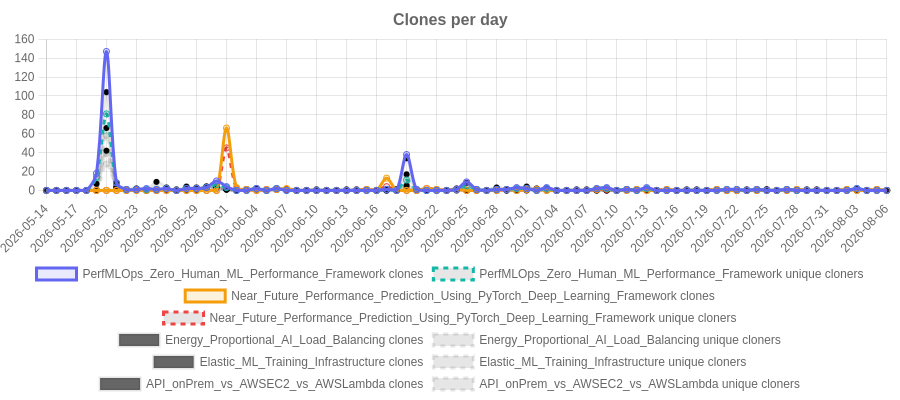
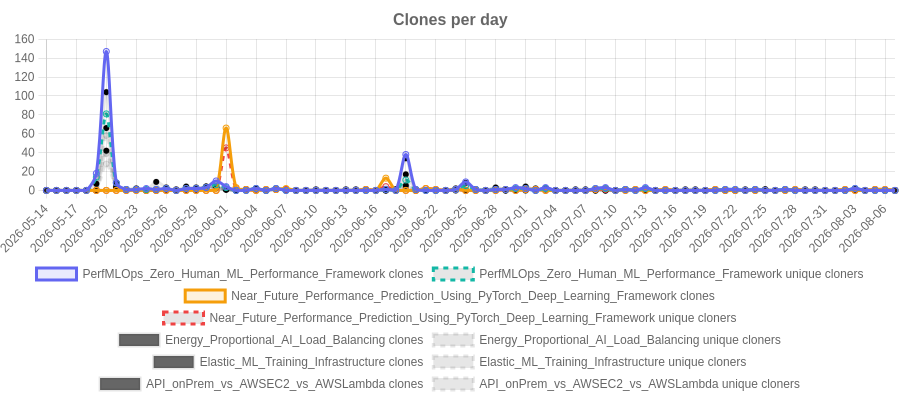
chore: archive traffic 2026-08-08

Changed region(s): [[0.1244, 0.33, 1.0, 0.63]]

diff --git a/index.html b/index.html
@@ -13,11 +13,11 @@ img{width:100%;border:1px solid #eee;border-radius:8px;margin-bottom:24px}
 </head>
 <body>
 <h1>Repo Traffic</h1>
-<p class="updated">Last updated: Fri, 07 Aug 2026 07:10:11 GMT</p>
+<p class="updated">Last updated: Sat, 08 Aug 2026 06:45:48 GMT</p>
 <h2>Combined totals</h2>
-<div class="cards"><div style="border:2px solid #6366f1;border-radius:12px;padding:24px;min-width:280px;width:340px;box-sizing:border-box;background:#f8f7ff"><div style="font-size:14px;font-weight:700;color:#6366f1;margin-bottom:14px">All repos combined</div><table style="width:100%;border-collapse:collapse;font-size:14px"><tr><td style="color:#888;padding:10px 0">Total views</td><td style="text-align:right;font-weight:700;font-size:22px;color:#6366f1">541</td></tr><tr><td style="color:#888;padding:10px 0">Total unique visitors</td><td style="text-align:right;font-weight:700;font-size:22px;color:#6366f1">94</td></tr><tr><td style="color:#888;padding:10px 0">Total clones</td><td style="text-align:right;font-weight:700;font-size:22px;color:#14b8a6">810</td></tr><tr><td style="color:#888;padding:10px 0">Total unique cloners</td><td style="text-align:right;font-weight:700;font-size:22px;color:#14b8a6">527</td></tr></table></div></div>
+<div class="cards"><div style="border:2px solid #6366f1;border-radius:12px;padding:24px;min-width:280px;width:340px;box-sizing:border-box;background:#f8f7ff"><div style="font-size:14px;font-weight:700;color:#6366f1;margin-bottom:14px">All repos combined</div><table style="width:100%;border-collapse:collapse;font-size:14px"><tr><td style="color:#888;padding:10px 0">Total views</td><td style="text-align:right;font-weight:700;font-size:22px;color:#6366f1">541</td></tr><tr><td style="color:#888;padding:10px 0">Total unique visitors</td><td style="text-align:right;font-weight:700;font-size:22px;color:#6366f1">94</td></tr><tr><td style="color:#888;padding:10px 0">Total clones</td><td style="text-align:right;font-weight:700;font-size:22px;color:#14b8a6">811</td></tr><tr><td style="color:#888;padding:10px 0">Total unique cloners</td><td style="text-align:right;font-weight:700;font-size:22px;color:#14b8a6">528</td></tr></table></div></div>
 <h2>Per repo totals</h2>
-<div class="cards"><div style="border:1px solid #ddd;border-radius:8px;padding:16px;flex:1;min-width:180px;box-sizing:border-box"><div style="font-size:11px;color:#666;word-break:break-all;margin-bottom:10px;font-weight:600">PerfMLOps_Zero_Human_ML_Performance_Framework</div><table style="width:100%;border-collapse:collapse;font-size:13px"><tr><td style="color:#888;padding:4px 0">Views</td><td style="text-align:right;font-weight:700;font-size:16px;color:#6366f1">191</td></tr><tr><td style="color:#888;padding:4px 0">Unique visitors</td><td style="text-align:right;font-weight:700;font-size:16px;color:#6366f1">22</td></tr><tr><td style="color:#888;padding:4px 0">Clones</td><td style="text-align:right;font-weight:700;font-size:16px;color:#14b8a6">281</td></tr><tr><td style="color:#888;padding:4px 0">Unique cloners</td><td style="text-align:right;font-weight:700;font-size:16px;color:#14b8a6">170</td></tr></table></div><div style="border:1px solid #ddd;border-radius:8px;padding:16px;flex:1;min-width:180px;box-sizing:border-box"><div style="font-size:11px;color:#666;word-break:break-all;margin-bottom:10px;font-weight:600">Near_Future_Performance_Prediction_Using_PyTorch_Deep_Learning_Framework</div><table style="width:100%;border-collapse:collapse;font-size:13px"><tr><td style="color:#888;padding:4px 0">Views</td><td style="text-align:right;font-weight:700;font-size:16px;color:#6366f1">59</td></tr><tr><td style="color:#888;padding:4px 0">Unique visitors</td><td style="text-align:right;font-weight:700;font-size:16px;color:#6366f1">17</td></tr><tr><td style="color:#888;padding:4px 0">Clones</td><td style="text-align:right;font-weight:700;font-size:16px;color:#14b8a6">104</td></tr><tr><td style="color:#888;padding:4px 0">Unique cloners</td><td style="text-align:right;font-weight:700;font-size:16px;color:#14b8a6">71</td></tr></table></div><div style="border:1px solid #ddd;border-radius:8px;padding:16px;flex:1;min-width:180px;box-sizing:border-box"><div style="font-size:11px;color:#666;word-break:break-all;margin-bottom:10px;font-weight:600">Energy_Proportional_AI_Load_Balancing</div><table style="width:100%;border-collapse:collapse;font-size:13px"><tr><td style="color:#888;padding:4px 0">Views</td><td style="text-align:right;font-weight:700;font-size:16px;color:#6366f1">116</td></tr><tr><td style="color:#888;padding:4px 0">Unique visitors</td><td style="text-align:right;font-weight:700;font-size:16px;color:#6366f1">28</td></tr><tr><td style="color:#888;padding:4px 0">Clones</td><td style="text-align:right;font-weight:700;font-size:16px;color:#14b8a6">165</td></tr><tr><td style="color:#888;padding:4px 0">Unique cloners</td><td style="text-align:right;font-weight:700;font-size:16px;color:#14b8a6">117</td></tr></table></div><div style="border:1px solid #ddd;border-radius:8px;padding:16px;flex:1;min-width:180px;box-sizing:border-box"><div style="font-size:11px;color:#666;word-break:break-all;margin-bottom:10px;font-weight:600">Elastic_ML_Training_Infrastructure</div><table style="width:100%;border-collapse:collapse;font-size:13px"><tr><td style="color:#888;padding:4px 0">Views</td><td style="text-align:right;font-weight:700;font-size:16px;color:#6366f1">72</td></tr><tr><td style="color:#888;padding:4px 0">Unique visitors</td><td style="text-align:right;font-weight:700;font-size:16px;color:#6366f1">16</td></tr><tr><td style="color:#888;padding:4px 0">Clones</td><td style="text-align:right;font-weight:700;font-size:16px;color:#14b8a6">79</td></tr><tr><td style="color:#888;padding:4px 0">Unique cloners</td><td style="text-align:right;font-weight:700;font-size:16px;color:#14b8a6">62</td></tr></table></div><div style="border:1px solid #ddd;border-radius:8px;padding:16px;flex:1;min-width:180px;box-sizing:border-box"><div style="font-size:11px;color:#666;word-break:break-all;margin-bottom:10px;font-weight:600">API_onPrem_vs_AWSEC2_vs_AWSLambda</div><table style="width:100%;border-collapse:collapse;font-size:13px"><tr><td style="color:#888;padding:4px 0">Views</td><td style="text-align:right;font-weight:700;font-size:16px;color:#6366f1">103</td></tr><tr><td style="color:#888;padding:4px 0">Unique visitors</td><td style="text-align:right;font-weight:700;font-size:16px;color:#6366f1">11</td></tr><tr><td style="color:#888;padding:4px 0">Clones</td><td style="text-align:right;font-weight:700;font-size:16px;color:#14b8a6">181</td></tr><tr><td style="color:#888;padding:4px 0">Unique cloners</td><td style="text-align:right;font-weight:700;font-size:16px;color:#14b8a6">107</td></tr></table></div></div>
+<div class="cards"><div style="border:1px solid #ddd;border-radius:8px;padding:16px;flex:1;min-width:180px;box-sizing:border-box"><div style="font-size:11px;color:#666;word-break:break-all;margin-bottom:10px;font-weight:600">PerfMLOps_Zero_Human_ML_Performance_Framework</div><table style="width:100%;border-collapse:collapse;font-size:13px"><tr><td style="color:#888;padding:4px 0">Views</td><td style="text-align:right;font-weight:700;font-size:16px;color:#6366f1">191</td></tr><tr><td style="color:#888;padding:4px 0">Unique visitors</td><td style="text-align:right;font-weight:700;font-size:16px;color:#6366f1">22</td></tr><tr><td style="color:#888;padding:4px 0">Clones</td><td style="text-align:right;font-weight:700;font-size:16px;color:#14b8a6">281</td></tr><tr><td style="color:#888;padding:4px 0">Unique cloners</td><td style="text-align:right;font-weight:700;font-size:16px;color:#14b8a6">170</td></tr></table></div><div style="border:1px solid #ddd;border-radius:8px;padding:16px;flex:1;min-width:180px;box-sizing:border-box"><div style="font-size:11px;color:#666;word-break:break-all;margin-bottom:10px;font-weight:600">Near_Future_Performance_Prediction_Using_PyTorch_Deep_Learning_Framework</div><table style="width:100%;border-collapse:collapse;font-size:13px"><tr><td style="color:#888;padding:4px 0">Views</td><td style="text-align:right;font-weight:700;font-size:16px;color:#6366f1">59</td></tr><tr><td style="color:#888;padding:4px 0">Unique visitors</td><td style="text-align:right;font-weight:700;font-size:16px;color:#6366f1">17</td></tr><tr><td style="color:#888;padding:4px 0">Clones</td><td style="text-align:right;font-weight:700;font-size:16px;color:#14b8a6">105</td></tr><tr><td style="color:#888;padding:4px 0">Unique cloners</td><td style="text-align:right;font-weight:700;font-size:16px;color:#14b8a6">72</td></tr></table></div><div style="border:1px solid #ddd;border-radius:8px;padding:16px;flex:1;min-width:180px;box-sizing:border-box"><div style="font-size:11px;color:#666;word-break:break-all;margin-bottom:10px;font-weight:600">Energy_Proportional_AI_Load_Balancing</div><table style="width:100%;border-collapse:collapse;font-size:13px"><tr><td style="color:#888;padding:4px 0">Views</td><td style="text-align:right;font-weight:700;font-size:16px;color:#6366f1">116</td></tr><tr><td style="color:#888;padding:4px 0">Unique visitors</td><td style="text-align:right;font-weight:700;font-size:16px;color:#6366f1">28</td></tr><tr><td style="color:#888;padding:4px 0">Clones</td><td style="text-align:right;font-weight:700;font-size:16px;color:#14b8a6">165</td></tr><tr><td style="color:#888;padding:4px 0">Unique cloners</td><td style="text-align:right;font-weight:700;font-size:16px;color:#14b8a6">117</td></tr></table></div><div style="border:1px solid #ddd;border-radius:8px;padding:16px;flex:1;min-width:180px;box-sizing:border-box"><div style="font-size:11px;color:#666;word-break:break-all;margin-bottom:10px;font-weight:600">Elastic_ML_Training_Infrastructure</div><table style="width:100%;border-collapse:collapse;font-size:13px"><tr><td style="color:#888;padding:4px 0">Views</td><td style="text-align:right;font-weight:700;font-size:16px;color:#6366f1">72</td></tr><tr><td style="color:#888;padding:4px 0">Unique visitors</td><td style="text-align:right;font-weight:700;font-size:16px;color:#6366f1">16</td></tr><tr><td style="color:#888;padding:4px 0">Clones</td><td style="text-align:right;font-weight:700;font-size:16px;color:#14b8a6">79</td></tr><tr><td style="color:#888;padding:4px 0">Unique cloners</td><td style="text-align:right;font-weight:700;font-size:16px;color:#14b8a6">62</td></tr></table></div><div style="border:1px solid #ddd;border-radius:8px;padding:16px;flex:1;min-width:180px;box-sizing:border-box"><div style="font-size:11px;color:#666;word-break:break-all;margin-bottom:10px;font-weight:600">API_onPrem_vs_AWSEC2_vs_AWSLambda</div><table style="width:100%;border-collapse:collapse;font-size:13px"><tr><td style="color:#888;padding:4px 0">Views</td><td style="text-align:right;font-weight:700;font-size:16px;color:#6366f1">103</td></tr><tr><td style="color:#888;padding:4px 0">Unique visitors</td><td style="text-align:right;font-weight:700;font-size:16px;color:#6366f1">11</td></tr><tr><td style="color:#888;padding:4px 0">Clones</td><td style="text-align:right;font-weight:700;font-size:16px;color:#14b8a6">181</td></tr><tr><td style="color:#888;padding:4px 0">Unique cloners</td><td style="text-align:right;font-weight:700;font-size:16px;color:#14b8a6">107</td></tr></table></div></div>
 <h2>Views chart</h2>
 <img src="charts/views.png" alt="Views chart"/>
 <h2>Clones chart</h2>
